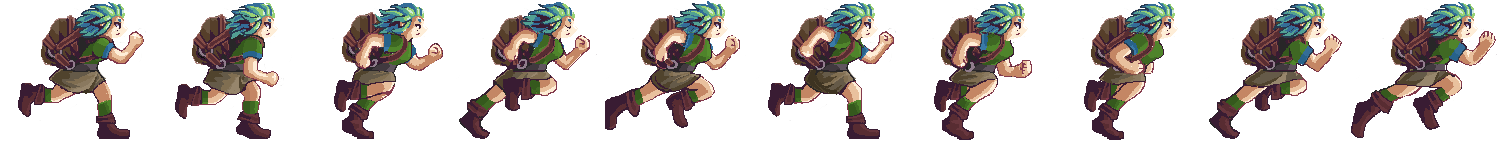
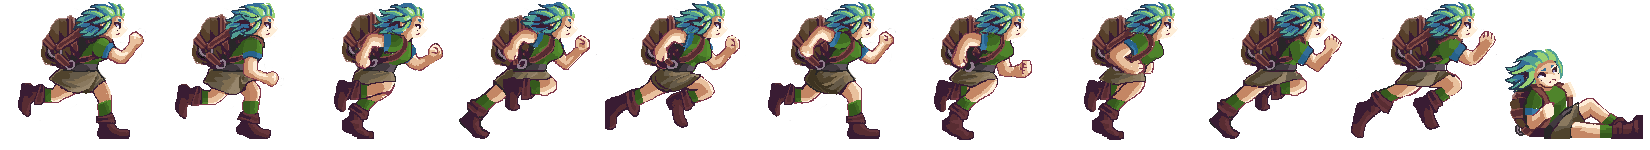
update

diff --git a/Game1.cs b/Game1.cs
@@ -3,6 +3,7 @@ using Microsoft.Xna.Framework.Graphics;
 using Microsoft.Xna.Framework.Input;
 using Microsoft.Xna.Framework.Media;
 using System;
+using System.Net.Http.Headers;
 using TwoWeekProject.Content;
 
 namespace TwoWeekProject
@@ -27,12 +28,18 @@ namespace TwoWeekProject
         private Texture2D player;
         private Vector2 playerPos;
         private int playerAnimation;
-        private int fixedPlayerTimer;
-        private bool fixedPlayerFlag;
+        private float playerSpeed;
+        private int fixedPlayerAnimationTimer;
+
+        private Texture2D monster;
+        private Vector2 monsterPos;
+        private int monsterAnimation;
+        private float monsterSpeed;
         
         private Texture2D side;
         private const int upSide = 325;
         private const int downSide = 375;
+        private Texture2D side2, side3;
 
         private int timer;
         private int score;
@@ -40,7 +47,7 @@ namespace TwoWeekProject
         private SpriteFont font;
         private Song song;
         private const int musicDataMax = 30;
-        private int speed;
+        
 
         private Camera _camera;
 
@@ -64,18 +71,22 @@ namespace TwoWeekProject
         {
             // TODO: Add your initialization logic here
             
-            backGround1Pos = new Vector2(1120 * 0, 0);
-            backGround2Pos = new Vector2(1120 * 1, 0);
-            backGround3Pos = new Vector2(1120 * 2, 0);
+            backGround1Pos = new Vector2(1120 * 0 -500, 0);
+            backGround2Pos = new Vector2(1120 * 1 -500, 0);
+            backGround3Pos = new Vector2(1120 * 2 -500, 0);
 
-            playerPos = new Vector2(50, 350);
+            playerPos = new Vector2(50, 325);
             playerAnimation = 0;
-            fixedPlayerTimer = 0;
-            fixedPlayerFlag = false;
+            playerSpeed = 6;
+
+            monsterPos = new Vector2(-400, 275);
+            monsterAnimation = 0;
+            monsterSpeed = 6;
 
 
             score = 100;
-            speed = 4;
+            
+
 
             musicData = new int[musicDataMax, 2]{
                 {700, upSide},//1
@@ -124,8 +135,12 @@ namespace TwoWeekProject
             backGround3 = Content.Load<Texture2D>("background3");
 
             player = Content.Load<Texture2D>("player");
-            
+            monster = Content.Load<Texture2D>("monster1");
+
             side = Content.Load<Texture2D>("side1");
+            side2 = Content.Load<Texture2D>("side2");
+            side3 = Content.Load<Texture2D>("side3");
+
             font = Content.Load<SpriteFont>("timer");
             song = Content.Load<Song>("test");
             MediaPlayer.Play(song);
@@ -141,37 +156,67 @@ namespace TwoWeekProject
             // TODO: Add your update logic here
             if (Keyboard.GetState().IsKeyDown(Keys.R)) Initialize();
             
-            if (playerPos.X - backGround1Pos.X >= WIDTH + 150) backGround1Pos.X = playerPos.X + WIDTH * 2 - 150; 
-            if (playerPos.X - backGround2Pos.X >= WIDTH + 150) backGround2Pos.X = playerPos.X + WIDTH * 2 - 150;
-            if (playerPos.X - backGround3Pos.X >= WIDTH + 150) backGround3Pos.X = playerPos.X + WIDTH * 2 - 150;
+            if (playerPos.X - backGround1Pos.X >= WIDTH + 500) backGround1Pos.X = playerPos.X + WIDTH * 2 - 500; 
+            if (playerPos.X - backGround2Pos.X >= WIDTH + 500) backGround2Pos.X = playerPos.X + WIDTH * 2 - 500;
+            if (playerPos.X - backGround3Pos.X >= WIDTH + 500) backGround3Pos.X = playerPos.X + WIDTH * 2 - 500;
             
             if (Keyboard.GetState().IsKeyDown(Keys.Up))
             {
-                playerPos.Y = 325;
-                fixedPlayerTimer = 0;
-                fixedPlayerFlag = true;
+                playerPos.Y -= 2;
             }
             else if (Keyboard.GetState().IsKeyDown(Keys.Down))
             {
-                playerPos.Y = 375;
-                fixedPlayerTimer = 0;
-                fixedPlayerFlag = true;
-            }
-            else if ( fixedPlayerTimer >= 30 && fixedPlayerFlag)
-            {
-                playerPos.Y = 350;
-                fixedPlayerTimer = 0;
-                fixedPlayerFlag = false;
-            }
-            fixedPlayerTimer++;
-            
-            if (timer % 10 == 0)
-            {
-                playerAnimation++;
-                if (playerAnimation == 10) playerAnimation = 0;
+                playerPos.Y += 2;
             }
 
-            playerPos.X += speed;
+            if (Keyboard.GetState().IsKeyDown(Keys.Space))
+            {
+                playerAnimation = 10;
+                fixedPlayerAnimationTimer = 20;
+                playerSpeed = 4;
+            }
+
+            if(playerAnimation == 10)
+            {
+                fixedPlayerAnimationTimer--;
+
+                if (fixedPlayerAnimationTimer <= 0) 
+                {
+                    playerAnimation = 0;
+                    playerSpeed = 6;
+                }
+            }
+            else if (timer % 10 == 0)
+            {
+                    playerAnimation++;
+                    if (playerAnimation == 10) playerAnimation = 0;
+
+                monsterAnimation++; 
+                if (monsterAnimation == 6) monsterAnimation = 0;
+            }
+
+            if (playerPos.Y <= 300)
+            {
+                playerPos.Y = 300;
+            }
+            if (playerPos.Y >= 375)
+            {
+                playerPos.Y = 375;
+            }
+
+
+            //else if ( fixedPlayerTimer >= 30 && fixedPlayerFlag)
+            //{
+            //    playerPos.Y = 350;
+            //    fixedPlayerTimer = 0;
+            //    fixedPlayerFlag = false;
+            //}
+            //fixedPlayerTimer++;
+
+           
+
+            playerPos.X += playerSpeed;
+            monsterPos.X += monsterSpeed;
 
             _camera.Follow(playerPos);
 
@@ -200,9 +245,10 @@ namespace TwoWeekProject
                 if(musicData[i,1] == upSide)
                     _spriteBatch.Draw(side, new Vector2(musicData[i, 0], upSide), new Rectangle(0, 0, 150, 150), Color.White);
             }
-
-                _spriteBatch.Draw(player, playerPos, new Rectangle(150 * playerAnimation, 0, 150, 150), Color.White);
-            
+            _spriteBatch.Draw(side2, new Vector2(1000,325), new Rectangle(0, 0, 150, 150), Color.White);
+            _spriteBatch.Draw(player, playerPos, new Rectangle(150 * playerAnimation, 0, 150, 150), Color.White);
+            _spriteBatch.Draw(monster, monsterPos, new Rectangle(350 *monsterAnimation, 0, 350, 150), Color.White,0.0f,new Vector2(0.0f,0.0f),new Vector2(2.0f,2.0f),0,0);
+            _spriteBatch.Draw(side3, new Vector2(1050, 375), new Rectangle(0, 0, 150, 150), Color.White);
             for (int i = 0; i < musicDataMax; i++)
             {
                 if (musicData[i, 1] == downSide)

diff --git a/Camera.cs b/Camera.cs
@@ -13,7 +13,7 @@ namespace TwoWeekProject.Content
 
         public void Follow(Vector2 pos)
         {
-            Transform = Matrix.CreateTranslation(-pos.X,  0, 0) * Matrix.CreateTranslation(50, 0, 0);
+            Transform = Matrix.CreateTranslation(-pos.X,  0, 0) * Matrix.CreateTranslation(500, 0, 0);
         }
 
 
